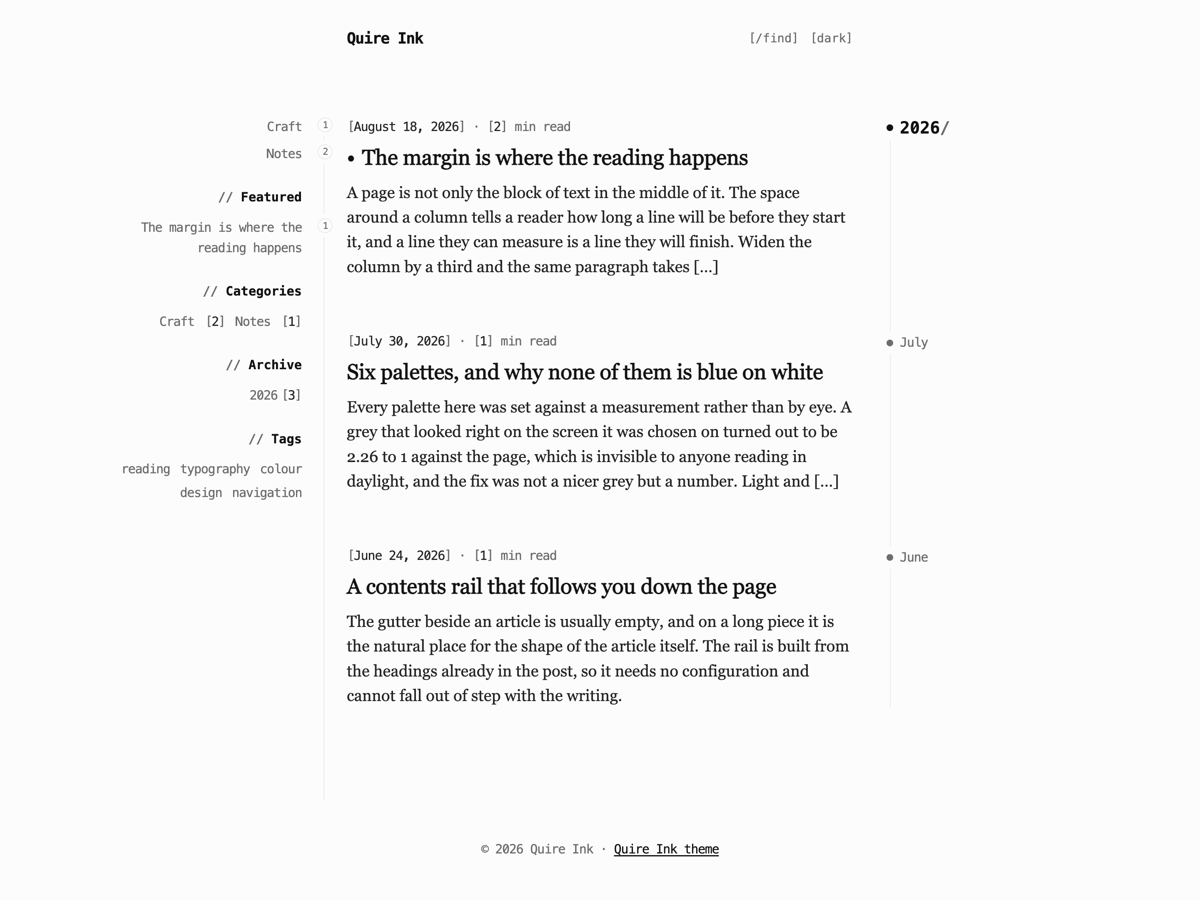
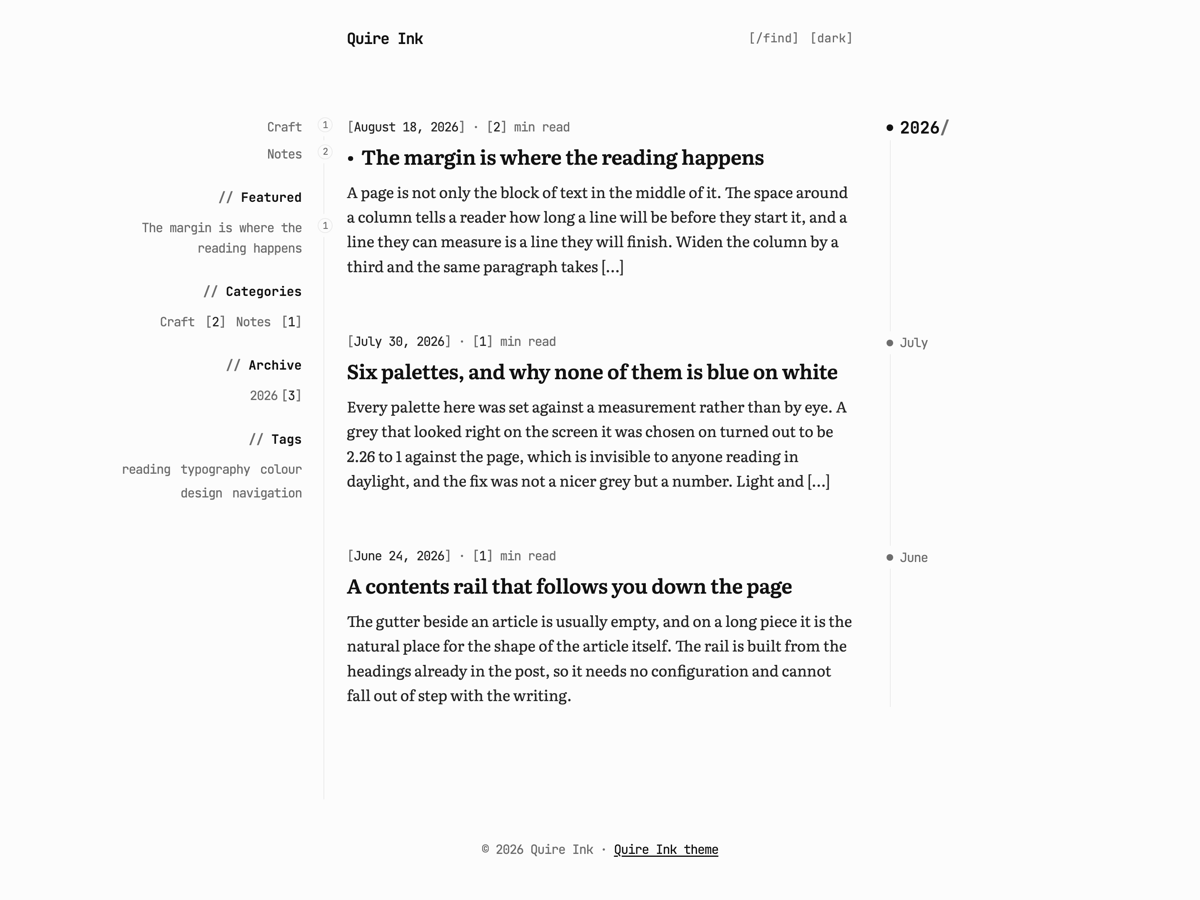
Every screenshot this repository ever took had no JavaScript and no fonts
WordPress writes its asset URLs against siteurl, which is http://localhost:8099.
Every document here said to shoot http://127.0.0.1:8099. Same server, different
ORIGIN: every module script and every font is a cross-origin fetch, CORS refuses all
of them, and what renders is a page with no behaviour and a fallback face.

It survived because the obvious check agrees with the wrong answer.
getComputedStyle(p).fontFamily returns "Literata" whether or not Literata arrived,
because a computed font-family is the request and not the result. document.fonts is
the measurement: Literata:loaded twice on localhost against Literata:error three
times on 127.0.0.1, with Literata Fallback:loaded standing in.

What it hid was worse than blurry type. BOOK MODE HAD NEVER ONCE BEEN OPENED. It is a
dialog post.js builds on a button click; post.js was one of the scripts CORS was
refusing; the button did nothing, in every render and in the browser. It works, and
docs/shots/demo-reading.png is the first time it has been seen: two columns, a drop
cap, a chrome bar with type-size controls and a page count. It was being advertised
in readme.txt on nothing but the fact that the button existed.

shot.sh refuses the wrong origin now, naming the origins the page actually points at,
with SHOT_ALLOW_CROSS_ORIGIN=1 for a site that means to serve assets elsewhere.
Negative-tested both ways. Every reference to 127.0.0.1 is gone from the documents.
[…]

diff --git a/README.md b/README.md
@@ -1,44 +1,137 @@
+<div align="center">
+
 # Quire Ink for WordPress
 
-The reading surface of [Quire Ink](https://quireink.com) as a WordPress theme: the same six
-palettes, the same self-hosted type system, the same table-of-contents rail, book typography
-and book mode, driven from WordPress content instead of Quire Ink's own.
+`0.1.0`
 
-**GNU GPL v2 or later** ([ADR 0005](docs/decisions/0005-gpl-v2-or-later.md)), which is what
-WordPress requires of a free theme. Submitted to the directory as
-[ticket #288845](https://themes.trac.wordpress.org/ticket/288845), where their Theme Check
-reports the same 0 REQUIRED / 0 WARNING / 3 RECOMMENDED that `dev/check-theme.sh` reports here.
+**A WordPress theme for people who write long things and want them read.**
+The reading surface of the [Quire Ink](https://quireink.com) blog engine, generated from that
+engine's own stylesheet rather than copied by hand.
+No Google Fonts, no CDN, no analytics, no request off your own domain.
 
-Quire Ink itself: [quireink.com](https://quireink.com) ·
-[github.com/joiha-steven/quireink](https://github.com/joiha-steven/quireink) ·
-[demo.quireink.com](https://demo.quireink.com)
+![WordPress 6.5+](https://img.shields.io/badge/WordPress-6.5%2B-21759b?logo=wordpress&logoColor=white)
+![PHP 7.4+](https://img.shields.io/badge/PHP-7.4%2B-777bb4?logo=php&logoColor=white)
+![Classic theme](https://img.shields.io/badge/Classic%20theme-Customizer-555555)
+![Third-party requests: 0](https://img.shields.io/badge/Third--party%20requests-0-22c55e)
+![Theme Check: 0 required, 0 warning](https://img.shields.io/badge/Theme%20Check-0%20required%20%C2%B7%200%20warning-22c55e)
+![License: GPL v2 or later](https://img.shields.io/badge/License-GPL_v2_or_later-22c55e)
 
-## What it looks like
+[**Quire Ink**](https://quireink.com) ·
+[**the engine**](https://github.com/joiha-steven/quireink) ·
+[**demo.quireink.com**](https://demo.quireink.com) ·
+[**directory ticket**](https://themes.trac.wordpress.org/ticket/288845) ·
+[**what it costs**](#what-it-costs-a-reader) ·
+[**why not something else**](#why-not-something-else) ·
+[**install**](#install)
 
-An article. The contents of the piece stand in the left gutter and track the scroll; its facts
-stand in the right one. The column between them is about seventy characters wide, and that
-width is the whole design rather than a detail of it.
+<img src="docs/shots/demo.png" alt="Two browser windows side by side: a listing page with a discovery rail of menu, featured posts, categories, archive and tags on the left and a year-and-month timeline on the right, and an article page with the post's own table of contents on the left and its date, word count, reading time, tags and categories on the right" width="1000">
 
-![An article page: a table of contents in the left gutter, a reading column of about seventy characters, and a right gutter holding the date, word count, reading time, tags and categories](docs/shots/article.png)
+<sub>The listing and an article, at the width that holds three columns. The middle one is about seventy characters wide and the two gutters are what is left, which is the design rather than a detail of it. Below that width the gutters fold away on their own and the column takes the screen.</sub>
 
-The same page in dark. Six palettes ship, each carrying both schemes, and the reader picks once.
+</div>
 
-![The same article in the dark scheme, the rails and the reading column unchanged](docs/shots/article-dark.png)
+## What it is
 
-Book typography, which is off by default: paragraphs indented rather than spaced, lines
-justified, words hyphenated at the break. It is a taste and not an improvement, so it is a
-switch.
+A theme for a blog whose point is the writing.
 
-![The same article with book typography on: justified lines, hyphenation at the line break, and the second paragraph of a run indented instead of spaced](docs/shots/book-typography.png)
+A reader opens a post and gets one column in a book face, the article's own contents standing
+in the gutter beside it, and its facts in the gutter on the other side. They can pick one of
+six palettes in light or dark and the site remembers it. Nothing on the page is fetched from
+anyone else: the six typefaces are in the theme, there is no analytics, no avatar service and
+no font host, so a stranger on a weak signal is waiting for your words and nothing else.
 
-The listing, with the discovery rail on the left and a timeline down the right marking each
-year and month.
+Everything visual is **generated** from the Quire Ink blog engine's own stylesheet, the same
+sheet that blog renders with. Not an impression of it, and not a copy that drifts: the
+extractor runs the engine's emitters and a static check compares bytes.
 
-![The listing page: a rail holding the menu, featured posts, categories, archive and tags, and a timeline in the right gutter with a sticky year and a marker at each month](docs/shots/listing.png)
+It is a **classic theme**. Settings live in the Customizer, there is no Site Editor, and
+nothing of yours is locked in: no custom post type, no taxonomy, no database table, no
+shortcode. Switch away and every post is still a post.
 
-Every picture above is built by [`dev/screenshot.sh`](dev/screenshot.sh) from a WordPress
-seeded for the purpose, so they can be rebuilt rather than re-staged. Nothing under `docs/`
-ships in the theme.
+## What you get
+
+| The part | What it does |
+|:---|:---|
+| 📐&nbsp;**The&nbsp;page** | One column of about seventy characters, the contents of the post in one gutter and its facts in the other. Below the width that holds them, both fold away without a second layout to maintain |
+| 🎨&nbsp;**Colour** | Six palettes, each in light and dark, chosen by the reader and remembered on their device. Every one clears WCAG AA against its own background, and a static check re-measures all sixty colours on every run |
+| 🔤&nbsp;**Type** | Six typefaces in the theme, all OFL, cut to Latin, Latin Extended and Vietnamese. Twenty-one files ship and a browser fetches four, because each face declares the characters it covers |
+| 📖&nbsp;**Book&nbsp;mode** | The article reset in two columns with a drop cap, sized from the window, with the reader's place kept |
+| ✒&nbsp;**Book&nbsp;typography** | Indented paragraphs, justified lines, hyphenation at the break. Off by default, because it is a taste and not an improvement |
+| 🗓&nbsp;**The&nbsp;listing** | A spine down the gutter with a sticky year and a marker at each new month, positioned against cards that are already there. Nothing measures anything |
+| 🧱&nbsp;**Writing** | The block editor shows the article: same face, same column width, same code styling. Eight patterns in their own category and four styles on the image block, each reaching something the sheet already draws |
+| 🧭&nbsp;**The&nbsp;rail** | Left alone it is the site's own structure: menu, sticky posts as Featured, categories, archive, tags. Put a widget in it and the widgets are the rail. Both are the rail |
+| 🖼&nbsp;**Pictures** | Featured images in two shapes, off by default, and a frame around every figure on the site in three weights plus an ink variant |
+| 🌍&nbsp;**Languages** | Translation-ready, 160 strings, no translations shipped. An RTL locale gets a mirrored stylesheet WordPress links by itself |
+| 🖨&nbsp;**Print** | Prints the article and leaves the furniture out |
+| 🔒&nbsp;**Privacy** | Zero third-party requests. No fonts, no scripts, no analytics, no avatars, no update check of its own |
+
+**Made for** one person writing long pieces on their own WordPress.
+**Not made for** a magazine front page, a shop, or a site whose design is its photographs.
+
+<div align="center">
+
+<img src="docs/shots/demo-reading.png" alt="Book mode on the left, showing the article set in two columns with a drop cap and a chrome bar carrying the title, two type-size controls and a page count; on the right the same article with book typography, its lines justified and hyphenated and its paragraphs indented" width="1000">
+
+<sub>Book mode and book typography, which are not the same thing and neither is a filter over the page. Book mode reflows the article into columns sized from the window. Book typography changes how the type is set, and it ships off: justification and hyphenation belong to print, and on a screen they are a preference. Both are the reading typography itself, which is why the specimen above is set in Literata with its Vietnamese accents rather than falling back to whatever the system has.</sub>
+
+<img src="docs/shots/demo-colour.png" alt="Six tiles of the same article header, three in light schemes named mono, sepia and forest, three in dark schemes named ocean, scifi and amber" width="1000">
+
+<sub>Six palettes, each carrying light and dark, so a palette that only works in one scheme is not shipped. Every colour comes from the blog engine and none is written into this theme, which is also why they can be checked rather than trusted: <code>check:contrast</code> reads all sixty out of the generated file and measures each against its own background on every run. The tightest is 5.01:1 where WCAG AA asks 4.5:1.</sub>
+
+<img src="docs/shots/demo-mobile.png" alt="Three phone screens: the listing, an article, and the listing again with the rail open as a drawer over it" width="1000">
+
+<sub>Below the width that holds a rail beside a column, the gutters fold away and the rail becomes a drawer. There is no second layout: it is the same stylesheet and the same markup, and the breakpoint is computed from the reading column rather than typed in.</sub>
+
+</div>
+
+## What it costs a reader
+
+One long article on the local stack, gzipped as served, no plugins. The post's own pictures
+are not counted, because those are your content and not the theme.
+
+| | Over the wire | |
+|:---|---:|:---|
+| **First visit** | **≈ 152 KB** | 146 KB with the source-code furniture switched off |
+| **Every visit after** | **≈ 18 KB** | only the HTML is fetched again |
+| Fonts | 68.2 KB | **4 of the 21 faces that ship**; a browser takes only the character ranges the page uses |
+| CSS | 46.9 KB | 39.0 of it the generated sheet, +6.5 only when the source-code furniture is on |
+| JavaScript | 12.0 KB | the engine's own reader bundles, plus WordPress's 1.4 KB reply script |
+| HTML | 18.3 KB | 63.9 KB before gzip |
+| **Third-party requests** | **0** | no CDN, no font host, no tracker, no avatar service |
+
+The blog engine serves about 114 KB for the same shape of article, so the theme costs about a
+third more, and the difference is WordPress's markup rather than the sheet.
+
+## Why not something else
+
+**Instead of a block theme.** There is no Site Editor here and that is a real trade: no style
+variations, no template editing in the browser. What you get for it is a stylesheet that is
+generated from a running blog rather than assembled out of `theme.json`, and settings that
+name what they do.
+
+**Instead of a theme with a thousand options.** Six panels. Density, corners and heading
+weight are what make two Quire Ink sites look unlike each other, and they are three controls
+rather than thirty.
+
+**Instead of a theme that loads a font service.** The faces are in the theme. Nothing on the
+page reaches another host, so there is nothing to disclose, nothing to block and nothing that
+stops working when somebody else's CDN does.
+
+**Instead of writing your own.** The boring half is done and pinned by nine static checks:
+escaping, prefixes, stylesheet order, colour contrast, class names that reach a rule, the two
+header blocks agreeing, and the generated CSS still matching the engine it came from.
+
+## Install
+
+From the WordPress admin, Appearance → Themes → Add New → Upload Theme, then Activate. Or:
+
+```bash
+git archive --format=zip --prefix=quire-ink/ -o quire-ink.zip HEAD:quire-ink
+```
+
+No build step, no compilation, no bundler: the repository is laid out the way the directory
+wants it. Then Appearance → Customize for the palette and the shape, and Appearance → Menus
+to put a menu in the **Rail menu** location, which is the sidebar.
 
 ## The idea
 
@@ -93,7 +186,7 @@ reinstalling. The theme is bind-mounted, so an edit is live on the next request.
 
 ```bash
 tools/shot.sh https://manhhung.me/<slug> .tmp/shots/quireink.png
-tools/shot.sh http://127.0.0.1:8099/<slug>/ .tmp/shots/wordpress.png
+tools/shot.sh http://localhost:8099/<slug>/ .tmp/shots/wordpress.png
 ```
 
 Turn on **Appearance → Customize → Quire Ink — reading → Book typography** first if the blog

diff --git a/CLAUDE.md b/CLAUDE.md
@@ -26,9 +26,13 @@ dev/seed.sh      # real articles from the live blog, converted to Gutenberg bloc
 tools/shot.sh <url> .tmp/shots/<name>.png
 ```
 
-`shot.sh` refuses below 500px and says why: Chrome's headless window has an OS minimum, so a
-390px request came back as a 500px page cropped to 390 — which reads as a theme that
-overflows. Phone widths are checked in the browser pane's device emulation.
+`shot.sh` refuses two things, each because it once produced a picture that lied. It will not
+render below 500px: Chrome's headless window has an OS minimum, so a 390px request came back
+as a 500px page cropped to 390, which reads as a theme that overflows. And it will not render
+a page whose scripts and stylesheets point at another origin: WordPress writes its asset URLs
+against `localhost`, so the same page asked for on `127.0.0.1` loses every module script and
+every font to CORS, and the type falls back to something close enough that nobody looks twice.
+Phone widths are photographed inside iframes, where the viewport is the iframe's own size.
 
 `dev/screenshot.sh` rebuilds `quire-ink/screenshot.png` from a WordPress seeded for the
 picture, and puts your database back afterwards.
@@ -95,6 +99,12 @@ picture, and puts your database back afterwards.
   Re-run the extractor and READ the diff before committing it.
 - **`dev/` throws its database away.** `dev/down.sh` is `docker compose down -v`. Nothing in
   that stack is worth keeping, and a half-migrated database is the one way it could lie.
+- **`localhost:8099`, never `127.0.0.1:8099`.** WordPress's `siteurl` is `localhost`, so the
+  page writes its script and font URLs against that host. Fetch the same page on `127.0.0.1`
+  and CORS refuses every module script and every font: no JavaScript at all, and the type
+  quietly falls back. `getComputedStyle` answers `Literata` either way, because a computed
+  font-family is the request and not the result — `document.fonts` is the measurement, and it
+  said `Literata:loaded` against `Literata:error`. `tools/shot.sh` refuses the wrong host now.
 - **Port 8099, not 8088.** The jellykey-local PHP server binds `[::1]:8088`; Docker publishes
   on `0.0.0.0`, so nothing collides at bind time and the browser just resolves `localhost` to
   `::1` and shows the other site.

diff --git a/docs/gaps.md b/docs/gaps.md
@@ -86,6 +86,29 @@ Measured after: Literata at 672px in both, headings matching, inline code in Jet
 its tinted ground — and a paragraph set to "Large" in the sidebar still measures 36px, because
 the author's own choices have to beat the theme and do.
 
+**Every screenshot this repository had taken was rendered without the theme's JavaScript or
+its fonts.** WordPress writes its asset URLs against `siteurl`, which on the local stack is
+`http://localhost:8099`. Every document here, this one included, said to shoot
+`http://127.0.0.1:8099`. Same server, different ORIGIN: each module script and each font is a
+cross-origin fetch, CORS refuses all of them, and what renders is a page with no behaviour and
+a metric fallback face.
+
+It survived because the fallback is close and because the obvious check agrees with the wrong
+answer. `getComputedStyle(p).fontFamily` returns `Literata` whether or not Literata arrived,
+since a computed font-family is the request rather than the result. `document.fonts` is the
+measurement, and it separated them at once: `Literata:loaded` twice on `localhost` against
+`Literata:error` three times on `127.0.0.1`, with `Literata Fallback:loaded` in its place.
+
+What it hid was worse than blurry type. **Book mode had never once been opened.** It is a
+dialog built by `post.js` from a button click, `post.js` was among the scripts CORS was
+refusing, and a click on the button did nothing, in every render and in the browser pane. It
+works, and the picture in the README is the first time anyone has seen it: two columns, a drop
+cap, a chrome bar with the type-size controls and a page count.
+
+`tools/shot.sh` refuses the wrong origin now, naming the origins the page actually points at,
+with `SHOT_ALLOW_CROSS_ORIGIN=1` for a site that means to serve assets from elsewhere. Every
+picture in the repository was rebuilt.
+
 **A phone was never actually photographed.** `tools/shot.sh` at 390px produced a page whose
 body text ran off the right edge and whose header icons were sliced in half - a theme that
 overflows, in a file exactly 390 pixels wide. It does not overflow. `headless=new` opens a

diff --git a/docs/README.md b/docs/README.md
@@ -37,12 +37,16 @@ here, all three passed every check, and all three were obvious in a screenshot:
 
 ```
 dev/up.sh                                          # WordPress on :8099
-tools/shot.sh http://127.0.0.1:8099/<slug>/ .tmp/shots/wordpress.png
+tools/shot.sh http://localhost:8099/<slug>/ .tmp/shots/wordpress.png
 ```
 
-`shot.sh` refuses below 500px and says why: Chrome's headless window has an OS minimum, so a
-390px request came back as a 500px page cropped to 390 — which reads as a theme that
-overflows. Phone widths are checked in the browser pane's device emulation.
+`shot.sh` refuses two things, each because it once produced a picture that lied. It will not
+render below 500px: Chrome's headless window has an OS minimum, so a 390px request came back
+as a 500px page cropped to 390, which reads as a theme that overflows. And it will not render
+a page whose scripts and stylesheets point at another origin: WordPress writes its asset URLs
+against `localhost`, so the same page asked for on `127.0.0.1` loses every module script and
+every font to CORS, and the type falls back to something close enough that nobody looks twice.
+Phone widths are photographed inside iframes, where the viewport is the iframe's own size.
 
 `dev/screenshot.sh` rebuilds `quire-ink/screenshot.png` from a WordPress seeded for the
 picture, and puts your database back afterwards.
